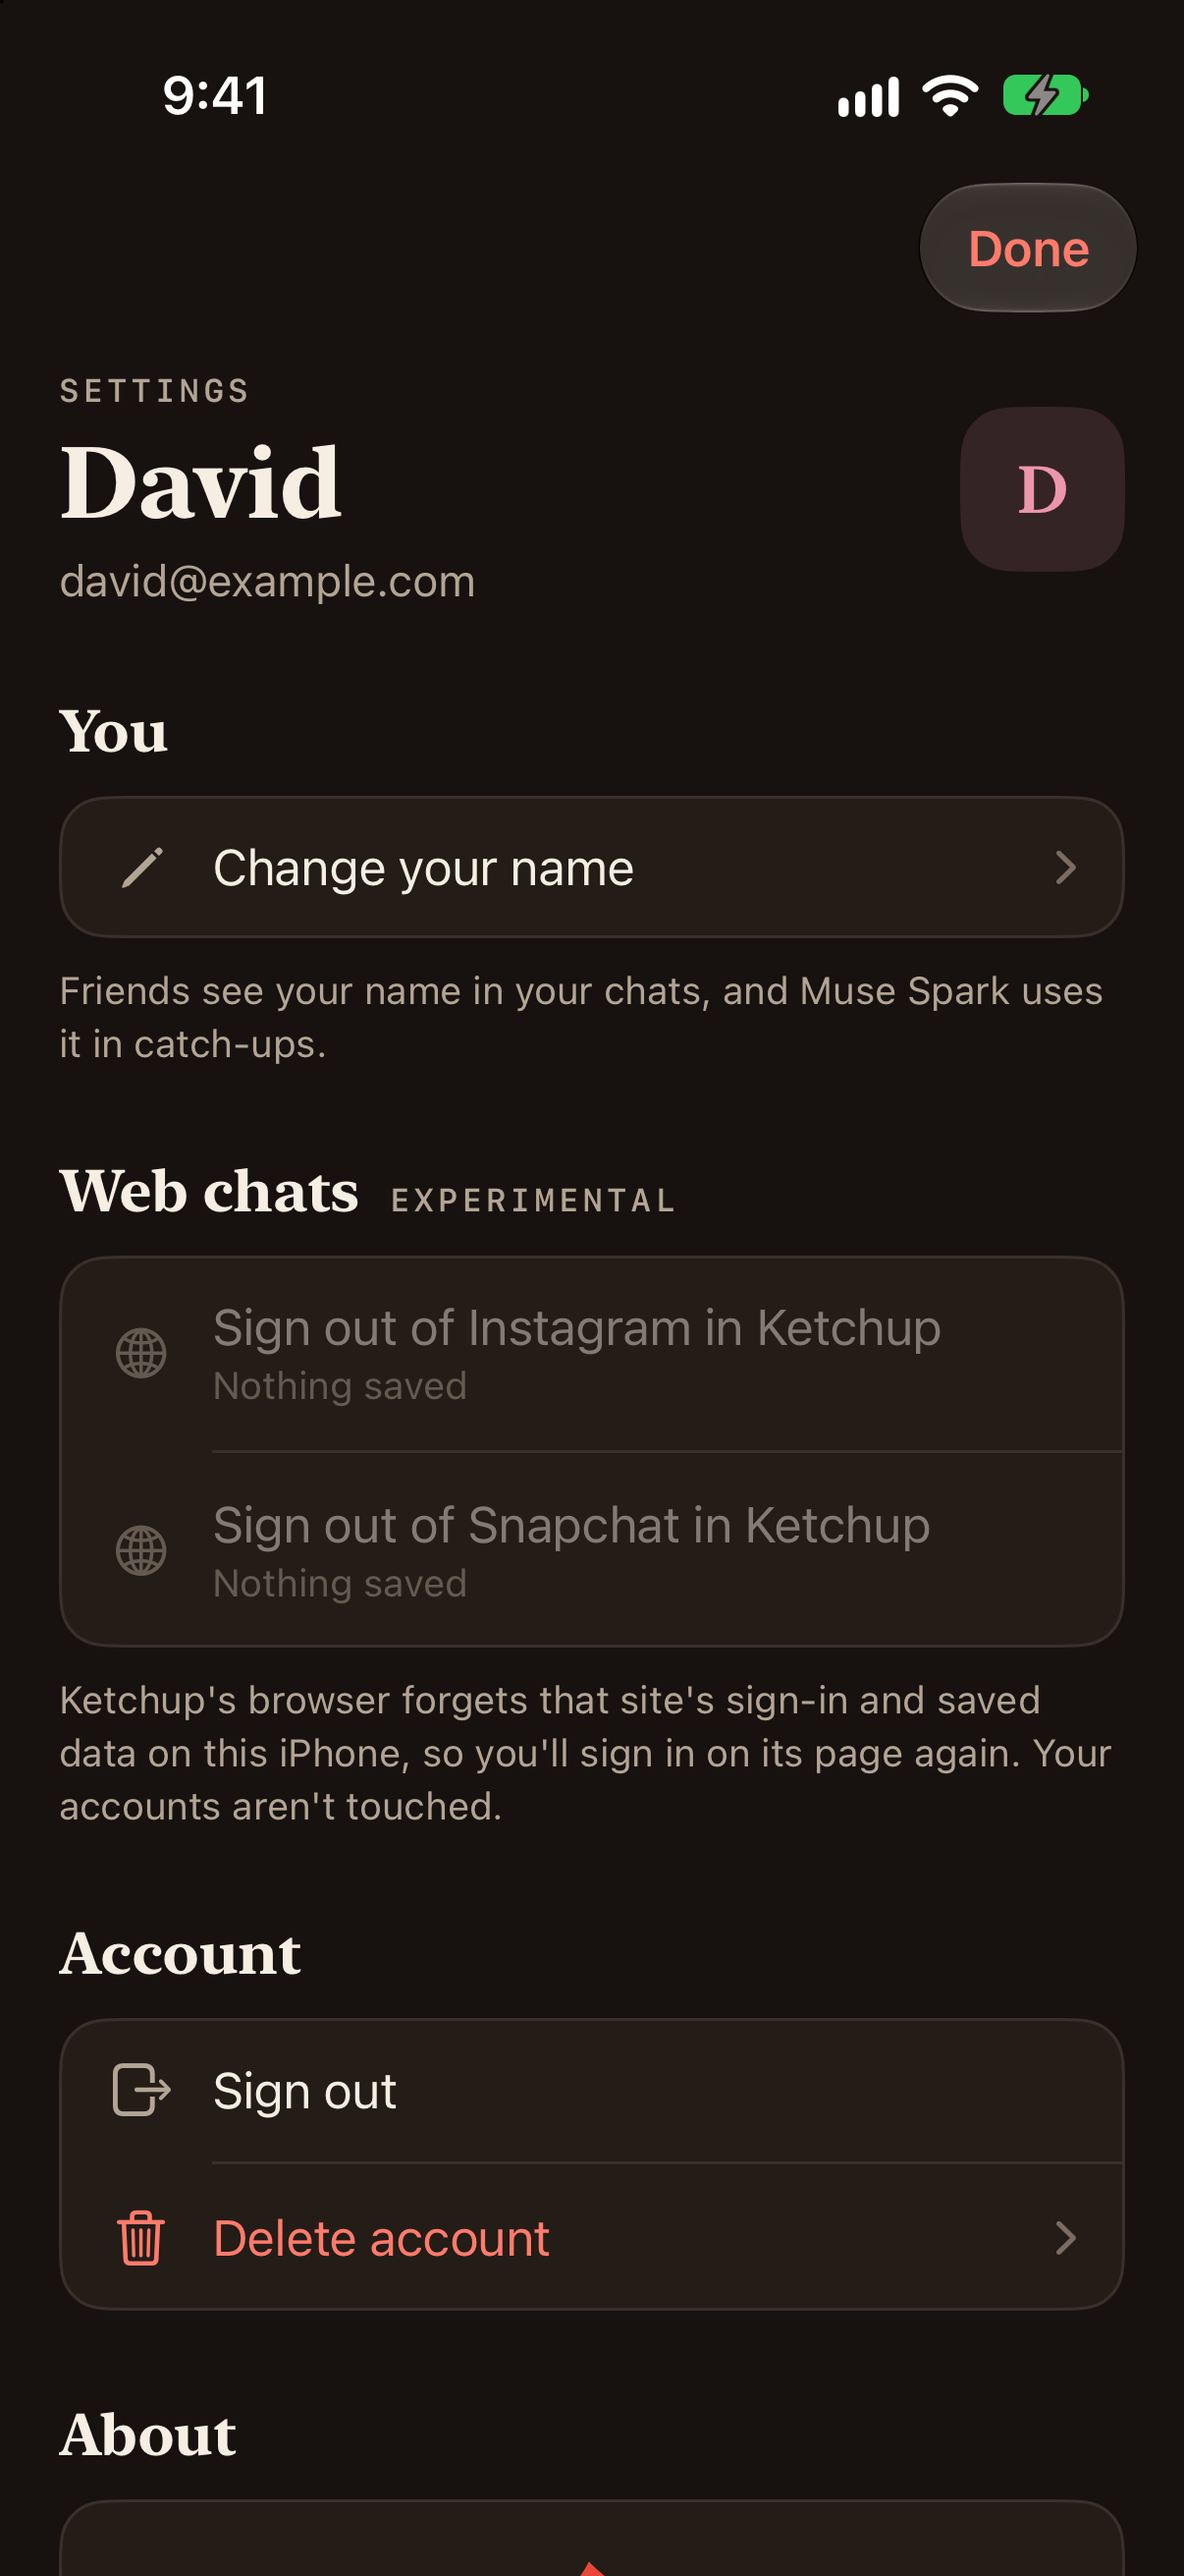
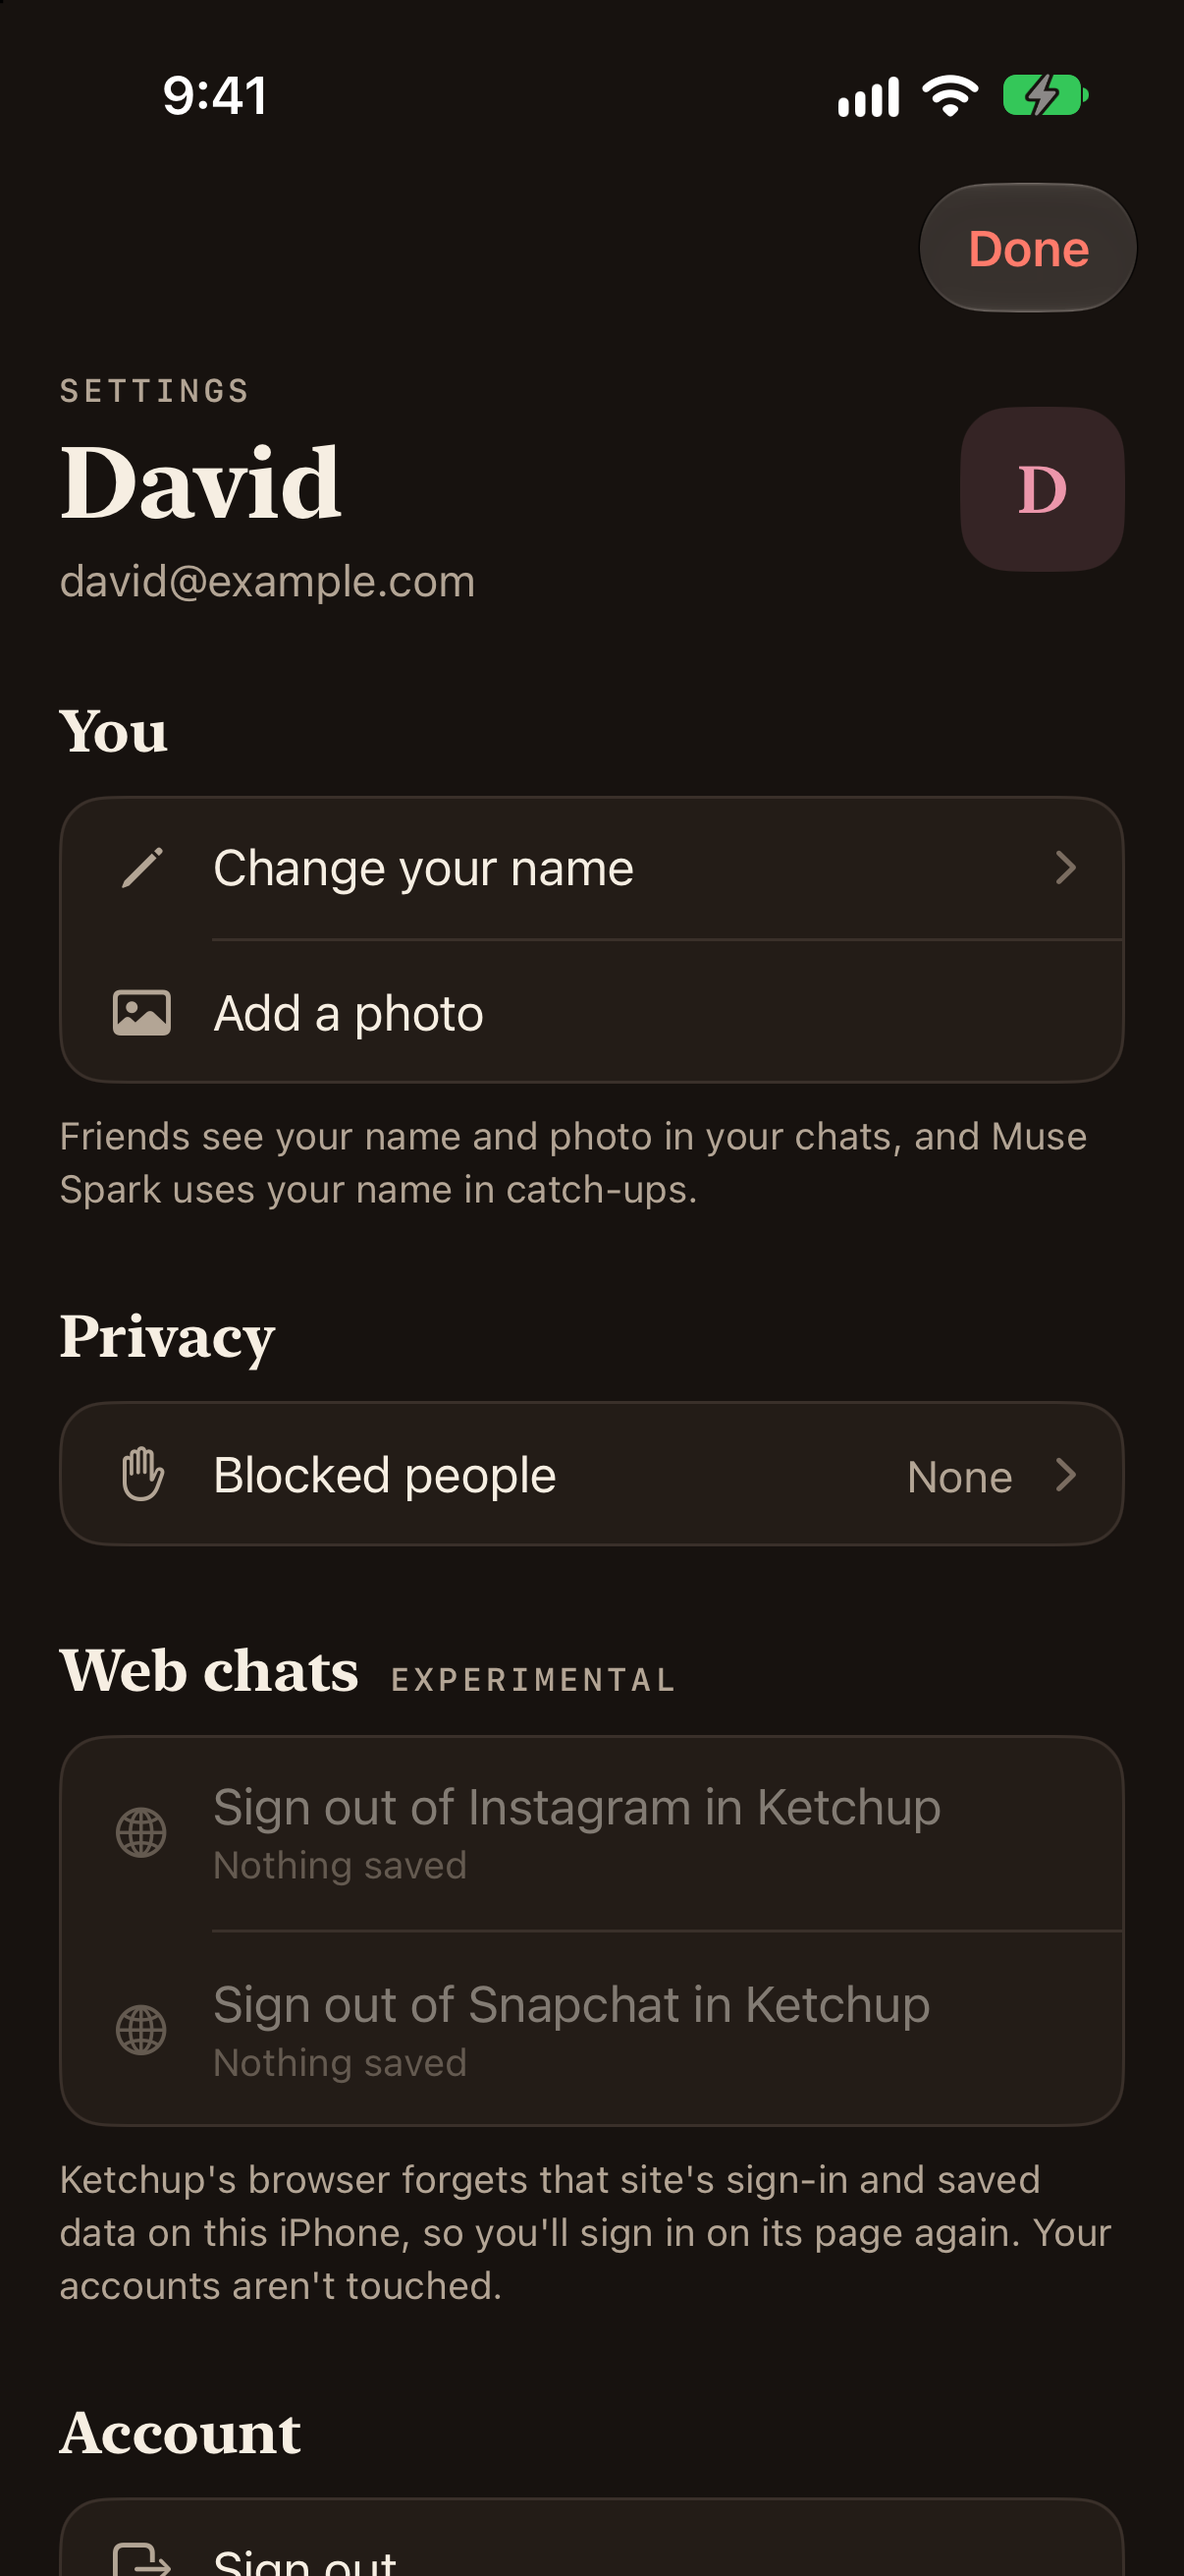
Docs and screenshots for profiles, Block and Report; reports index
README: blocking happens in the database (so Muse Spark respects it),
the faster messages policy with its EXPLAIN numbers, reports, and the
suite at 69. the project notes: the block design, the timing recipe, reading
new reports, report-alert's secrets and deploy. DESIGN.md: the profile,
report and blocked pieces. Light, dark and XXL screenshots. 0007 part
2b adds reports_reported_user_idx (applied live; RLS 69/69).

diff --git a/CLAUDE.md b/CLAUDE.md
@@ -84,13 +84,15 @@ the viewer sets display name **David**, joins with the printed invite code, and 
 302 unread. `--rearm` resets David to all-unread between video takes.
 
 ## Settings and people (migration 0007)
-Code: `ios/Ketchup/People/` (`SettingsView`, `AccountPages`, `SettingsPieces`, `Account.swift`),
-`Net/PeopleAPI.swift`, `WebChat/WebChatSignOut.swift`. Settings opens from the inbox's top-left
+Code: `ios/Ketchup/People/` (`SettingsView`, `AccountPages`, `SettingsPieces`, `Account.swift`,
+`ProfileView`, `ReportView`, `BlockedPeopleView`, `PeopleStore`, `PeopleModels`),
+`Net/PeopleAPI.swift`, `WebChat/WebChatSignOut.swift`, edge function `report-alert`. Settings opens from the inbox's top-left
 photo (your initial until you add one) as a sheet; signing out waits for the sheet to close (`SettingsExit`, the sheet's
 `onDismiss` in `ChatsListView`), so it can't be left over sign-in.
 - `0007_people.sql` is one file applied live in parts, one `apply_migration` per slice, each
-  named `0007_people_<part>` (so far `0007_people_account`, `0007_people_account_photos`).
-  Append, never rewrite: a fresh project runs the whole file once.
+  named `0007_people_<part>` (so far `0007_people_account`, `0007_people_account_photos`,
+  `0007_people_blocks_reports`, `0007_people_reports_index`). Append, never rewrite: a fresh
+  project runs the whole file once.
 - `delete_account()` (security definer, `authenticated` only): deletes friends' saved
   catch-ups that read the caller's messages, then the auth user (profile, memberships,
   messages, own briefs cascade; a chat they were last in goes through `apply_member_change`),
@@ -103,12 +105,38 @@ photo (your initial until you add one) as a sheet; signing out waits for the she
   records whose name matches that source's `domains`, then posts `webChatForgotten` and the
   open page goes back to its start URL. The first check after a fresh install can take a few
   seconds (WebKit starting); the row works meanwhile.
+- Block is RLS: `messages_select_member` is `chat_id = any(my_chat_ids())` and
+  `sender <> all(my_blocked_ids())`, each wrapped in `(select …)` so it's an InitPlan run once
+  per query (keep that shape; a bare function call runs per row). `my_chats` leaves blocked
+  senders out of unread counts and inbox lines. `block_person` / `unblock_person` /
+  `my_blocks()` are the only way in; a trigger drops the blocker's `ai_briefs` that could have
+  read that person. `mark_read` is unchanged: the cursor is a time, and every count and
+  catch-up window is read through the policy. In the app, `PeopleStore.block` also forgets
+  the phone's kept thread copies (`DeviceStore.keepThreads([])`) and the open chat calls
+  `ChatModel.blockChanged`. The RLS suite's "blocked:" checks cover it.
+- Timing the read path (rolled back, as a seed member, here Maya): `set local role
+  authenticated`, her jwt claims, then `explain (analyze, format json)` of
+  `select … from messages where chat_id = '<breck>' order by created_at desc limit 200`
+  seven times; take the median. Nov 3, 2026: 6.4 ms before 0007 part 2, 0.49 ms after.
+- New reports (David, in the SQL editor; nobody can read them through the API):
+  `select created_at, reason, reported_name, message_body, message_image, note, id from
+  reports where reviewed_at is null order by created_at desc;` then
+  `update reports set reviewed_at = now() where id = '<id>';` once looked at. Blocks:
+  `select * from blocks;`.
+- Report email: after a report the app calls `report-alert` (verify_jwt on), which emails
+  `REPORTS_EMAIL` through Resend (reason, message or person, the SQL to read it; no names or
+  text). It does nothing until David sets `RESEND_API_KEY` and `REPORTS_EMAIL` (optional
+  `REPORTS_FROM`, default `Ketchup <noreply@vibetemp.com>`). Deploy:
+  `supabase functions deploy report-alert --project-ref cfqlnthmqwkhjbhylvgu --use-api`; an
+  unauthenticated POST must return 401. Logs: `"fn":"report-alert"`, counts only.
 - Previews: `-screen settings` (add `-section web`, `account` or `about`), `settings-sheet`
-  (opened by the real inbox, `-KetchupOpenSettings`), `settings-name`, `settings-delete`.
-  The account email in previews is `david@example.com`.
-- Rows still to come are marked `SLOT` in `SettingsView.swift`: Blocked people (People,
-  slice 2), and Saved catch-ups and Clear cache under "On this iPhone" (Speed). A section
-  whose rows are all empty doesn't show.
+  (opened by the real inbox, `-KetchupOpenSettings`), `settings-name`, `settings-delete`,
+  `settings-blocked`, `profile`, `profile-blocked`, `report`, `report-sent`, `info-blocked`,
+  `chat-profile` and `chat-report` (the sheets opened from the thread). The account email in
+  previews is `david@example.com`.
+- Still marked `SLOT`: Saved catch-ups and Clear cache under "On this iPhone" in
+  `SettingsView.swift` (Speed), and "Add to your people" on a profile (People, slice 3). A
+  section whose rows are all empty doesn't show.
 
 ## Photos (profile photos and photos in chats)
 Code: `ios/Ketchup/Photos/` (`Avatar`, `AvatarCropper`, `ProfilePhotos` with

diff --git a/docs/DESIGN.md b/docs/DESIGN.md
@@ -224,6 +224,28 @@ Settings (`ios/Ketchup/People/`) is a sheet from your initial at the top left of
 - **Settings has no ketchup button.** Delete account is the one red row; its page has the one ketchup button, "Delete my account", and a system alert asks once more.
 - **Say what happens.** The delete page lists what goes and what stays; the web-chat rows say "Nothing saved" or "Signed out".
 
+### Profiles, Block and Report
+
+A profile opens from a name or photo in the thread (a sheet) or a member in Chat info (pushed). It's built from the same sections and rows as Settings.
+
+<p>
+<img src="screens/people/profile-light.png" width="200" alt="Jordan's profile: in 1 chat with you, Chats you share, Block or report">
+<img src="screens/people/profile-blocked-dark.png" width="200" alt="The same profile blocked: a Blocked stamp and Unblock, dark">
+<img src="screens/people/report-light.png" width="200" alt="Report this message: the message on paper, what's wrong, a note, Block them too">
+<img src="screens/people/settings-blocked-light.png" width="200" alt="Blocked people, each with Unblock">
+</p>
+
+| Piece | What it does |
+|---|---|
+| `ProfileView(person:in:onBlockChange:)` | Header like Settings' (a kicker, the name in New York, their `Avatar`), Chats you share, then Block or report. Blocked shows a ketchup `Stamp("Blocked")`. `ProfileSheet` is the same with Done, for the thread. |
+| `ReportView(target:)` | The message on paper under the sender's name kicker, What's wrong? (one choice, an ink check), an optional note, "Block them too", and the one ketchup button, Send report. Then a thank-you with the drop. `ReportSheet` adds Cancel. |
+| `BlockedPeopleView` | Each blocked person with their avatar, when, and an outline Unblock. |
+| `SenderName` | The name over a run of bubbles; a button to their profile when there's one to open. |
+
+- **Block is red, Report isn't.** Block is the destructive row; Report is ink with a flag and opens a page.
+- **Say who's told.** Every block and report screen says it plainly: they aren't told, they won't know it was you.
+- **In Chat info,** a blocked member gets a ketchup "Blocked" kicker, and everyone but you has a chevron.
+
 ## Voice
 
 - Plain, warm, a little cheeky. **At most one pun per screen.**
@@ -247,7 +269,7 @@ xcrun simctl launch --terminate-running-process <udid> com.vibetemp.ketchup -scr
 | `ai-catchup`, `ai-checked`, `ai-loading`, `ai-loading-blank`, `ai-error`, `ai-empty`, `ai-ask`, `ai-ask-loading`, `ai-ask-error`, `ai-answer`, `ai-notfound` | The Muse Spark screens (`Debug/AIPreviewScreen.swift`). `ai-loading-blank` is the skim before the thread's messages are here. Add `-section for-you`, `plans`, `owes`, `questions` or `highlights` to scroll the brief there, `-delay 4` to land it late, `-reduceMotion YES` to see the Reduce Motion version |
 | `store-check` | Not a screen: runs the on-device copy (`Store/DeviceStore.swift`) against a scratch folder and lists what passed (`Debug/StoreCheckScreen.swift`) |
 | `web-instagram`, `web-snapchat`, `web-intro`, `web-reading`, `web-brief`, `web-error`, `web-quote` | The web-chat screens (`Debug/WebChatPreviewScreen.swift`) on the synthetic threads. `web-instagram` and `web-snapchat` are each page on its bundled fixture; `web-brief` is a hand-written brief, not a Muse Spark call |
-| `settings`, `settings-sheet`, `settings-name`, `settings-delete` | Settings and its pages (`Debug/PeoplePreviewScreen.swift`). `settings` is full screen (add `-section web`, `account` or `about`); `settings-sheet` is the sheet as the inbox opens it |
+| `settings`, `settings-sheet`, `settings-name`, `settings-delete`, `settings-blocked`, `profile`, `profile-blocked`, `report`, `report-sent`, `info-blocked`, `chat-profile`, `chat-report` | Settings and the people screens (`Debug/PeoplePreviewScreen.swift`), on the demo chat's made-up friends. `settings` is full screen (add `-section web`, `account` or `about`); `settings-sheet` is the sheet as the inbox opens it; `chat-profile` and `chat-report` open over the Breck thread |
 | `photo-crop`, `photo-inbox`, `photo-chat`, `photo-info`, `photo-thread`, `photo-sending`, `photo-attach`, `photo-viewer` | Photos (`Debug/PhotosPreviewScreen.swift`): the cropper on a made-up mountain photo; the inbox, the Breck thread and its members with made-up profile photos (`Debug/PreviewPhotos.swift`; Sam has none, to show the monogram); the end of Breck with photos in it, David's photo uploading (a pretend 20 s upload), one waiting in the composer, and the viewer on Maya's cabin |
 
 Light and dark screenshots:

diff --git a/README.md b/README.md
@@ -191,6 +191,23 @@ flowchart LR
   quotes you, and catch-ups friends saved that read your messages are deleted too: your
   words don't outlive you inside someone else's summary. Messages don't stay behind as
   "Deleted account", because in a group of friends the words still say who wrote them.
+- **Blocking happens in the database, so Muse Spark respects it too.** A blocked person's
+  messages are left out by the messages read policy itself, so every path that reads as
+  you follows it: the app's reads, Realtime (which applies the policy for each
+  subscriber) and the catch-up edge function, which reads as the caller. Muse Spark
+  never reads a blocked person's messages for your catch-ups. Your unread counts and
+  inbox lines leave them out too, and saved catch-ups that read them are dropped. It's
+  one way and quiet: they stay in the chat and aren't told.
+- **The same policy got faster.** It used to check your membership once for every row;
+  now it checks once per query (an array of your chats, plus the people you've blocked).
+  On the 302-message demo chat the app's first page went from 6.4 ms to 0.49 ms in
+  the database, and the catch-up's read from 8.0 ms to 0.45 ms (EXPLAIN ANALYZE, median
+  of 7, November 3, 2026).
+- **Reports go to us, not to the app.** You can report a message (long press) or a
+  person (their profile), with a reason. Only the reporter can file one, nobody can read
+  reports through the API, and the server keeps a copy of the reported message so it
+  can still be reviewed if it's deleted later. An edge function emails a heads-up with
+  no names or message text in it.
 - **Photos follow the same rules** ([`0006_photos.sql`](supabase/migrations/0006_photos.sql)).
   Profile photos are in a public bucket, so the app loads them without a token, but
   nobody can list it. You can only upload into and delete from your own folder (10 an
@@ -199,13 +216,14 @@ flowchart LR
   URLs) or upload into its folder (200 files an hour), only the sender can delete one,
   and a message can only point at a photo already uploaded to its own chat. Photos are
   re-encoded on the phone, so no location or other metadata leaves it.
-- **A 49-check RLS test suite** ([`supabase/tests/rls_check.sql`](supabase/tests/rls_check.sql))
+- **A 69-check RLS test suite** ([`supabase/tests/rls_check.sql`](supabase/tests/rls_check.sql))
   plays members and an outsider. It covers spoofing the sender, self-adding to a
   chat, editing chats directly, outsider reads and posts, wrong-code counting, the
-  Instagram and Snapchat catch-up's usage cap, profile photos (own folder only, no
-  listing, the hourly cap), chat photos (members only, uploaded first, own chat only,
-  only the sender deletes) and deleting an account. It runs in one transaction and
-  rolls back.
+  Instagram and Snapchat catch-up's usage cap, blocking (hidden reads, unread counts,
+  inbox lines, dropped catch-ups, one way), reports (unreadable, never your own, never
+  from outside a chat), profile photos (own folder only, no listing, the hourly cap),
+  chat photos (members only, uploaded first, own chat only, only the sender deletes)
+  and deleting an account. It runs in one transaction and rolls back.
 
 ## Run it yourself
 
@@ -287,6 +305,9 @@ Settings opens from your initial at the top left of Chats
   workers). Your accounts there aren't touched.
 - **Sign out, or delete your account for good** (see Security above). A page says what
   goes and what stays, then asks once more.
+- **Profiles, Block and Report.** Tap a name or photo in a chat, or a member in Chat
+  info, for their profile: the chats you share, Block and Report. Long press someone's
+  message to report it. Settings → Blocked people has Unblock.
 
 ## Built during the event
 
